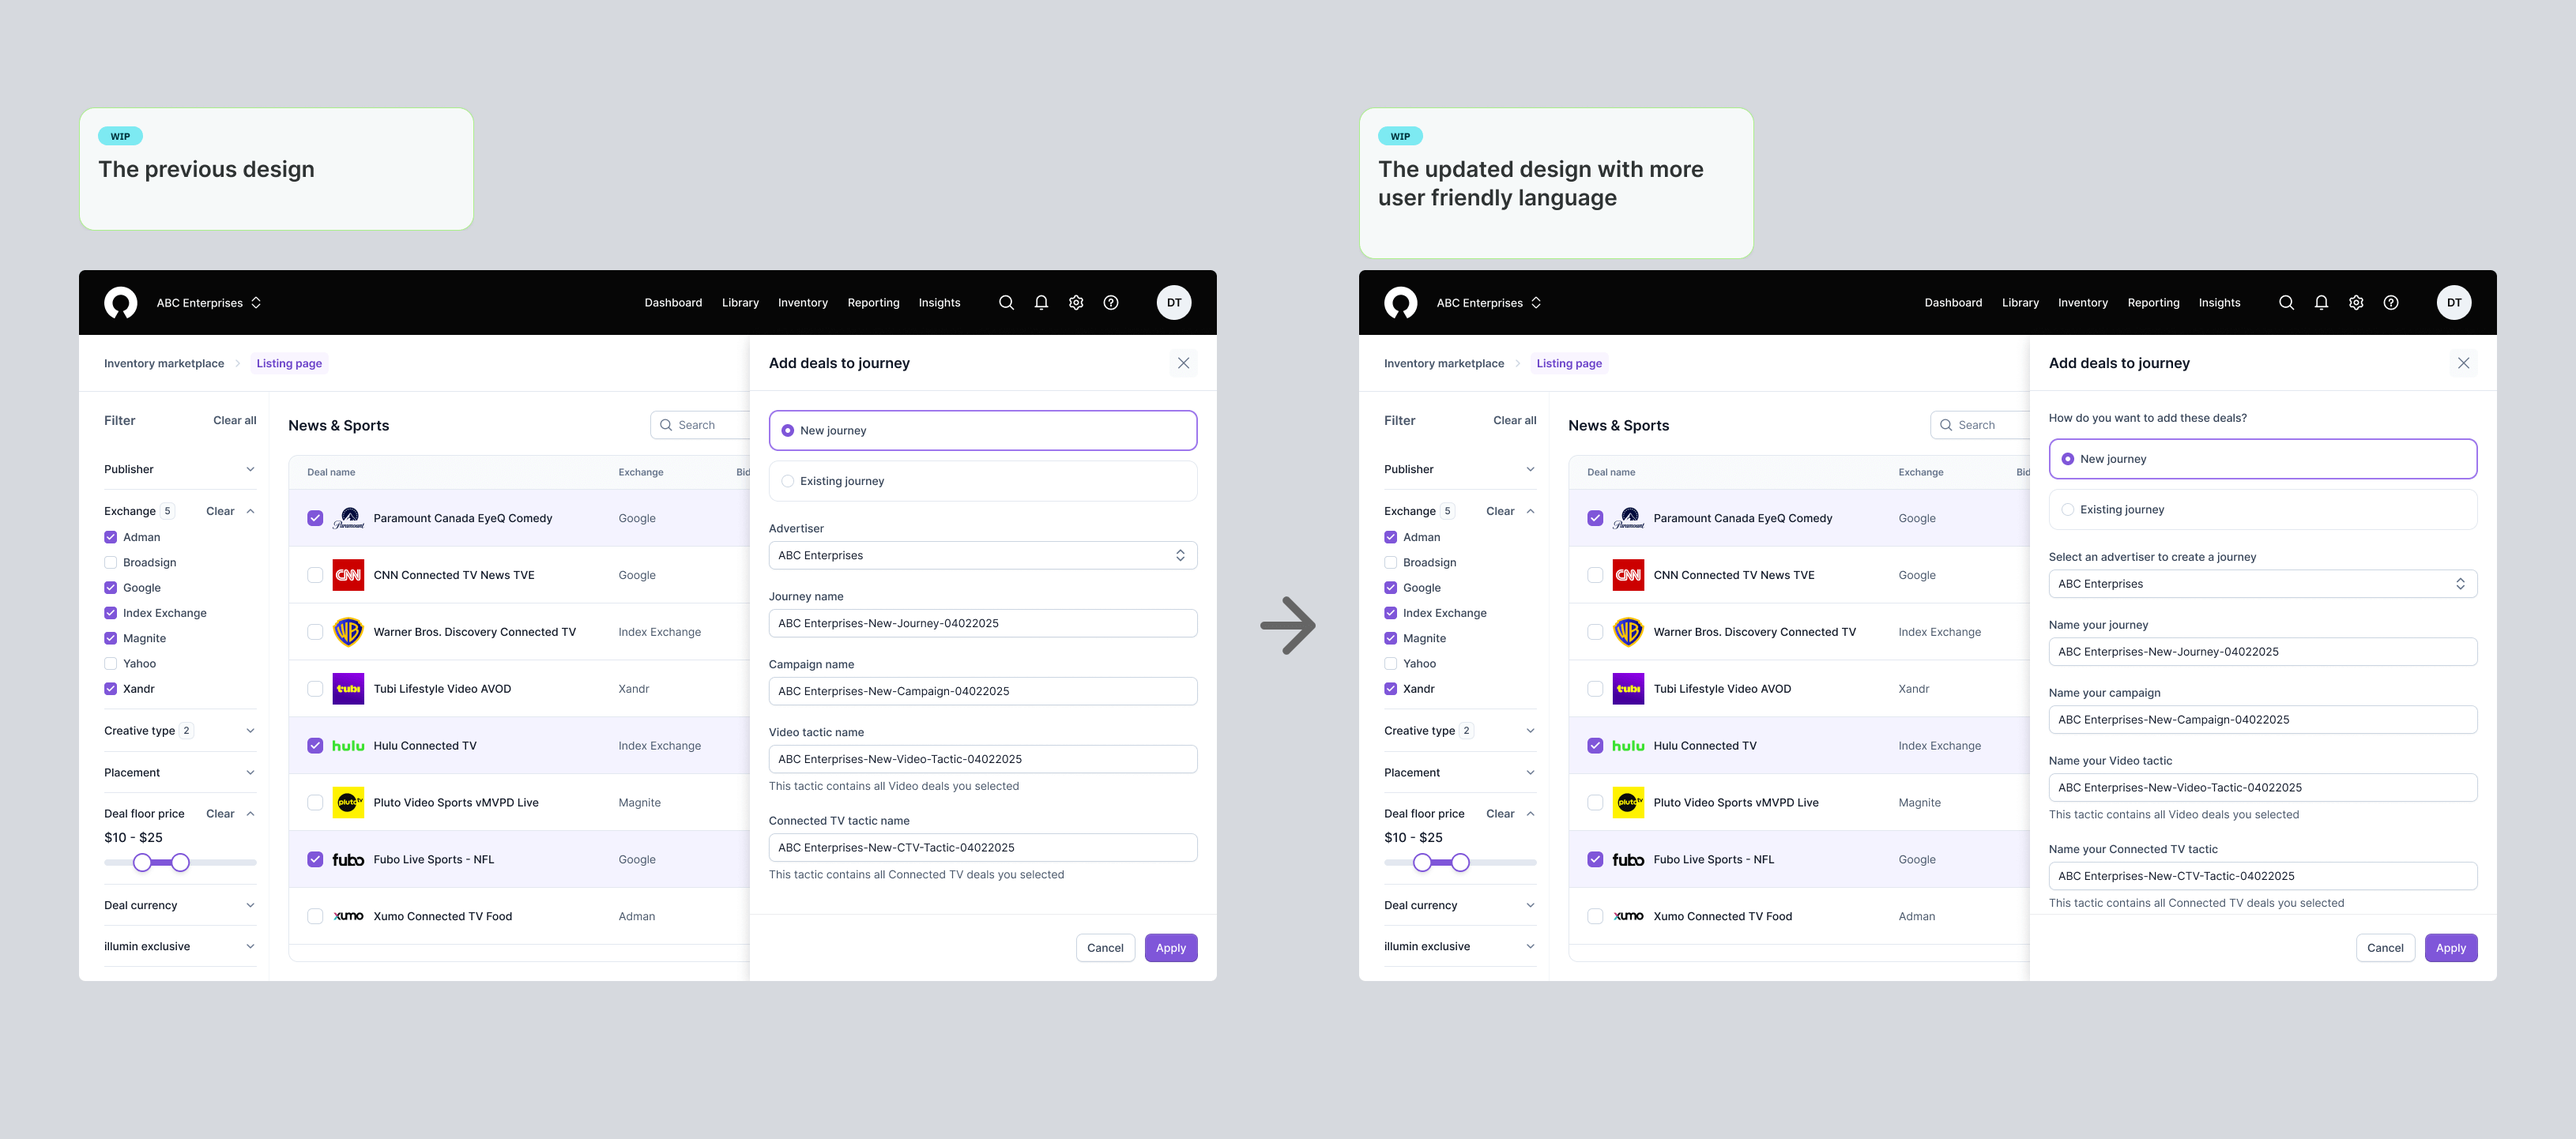
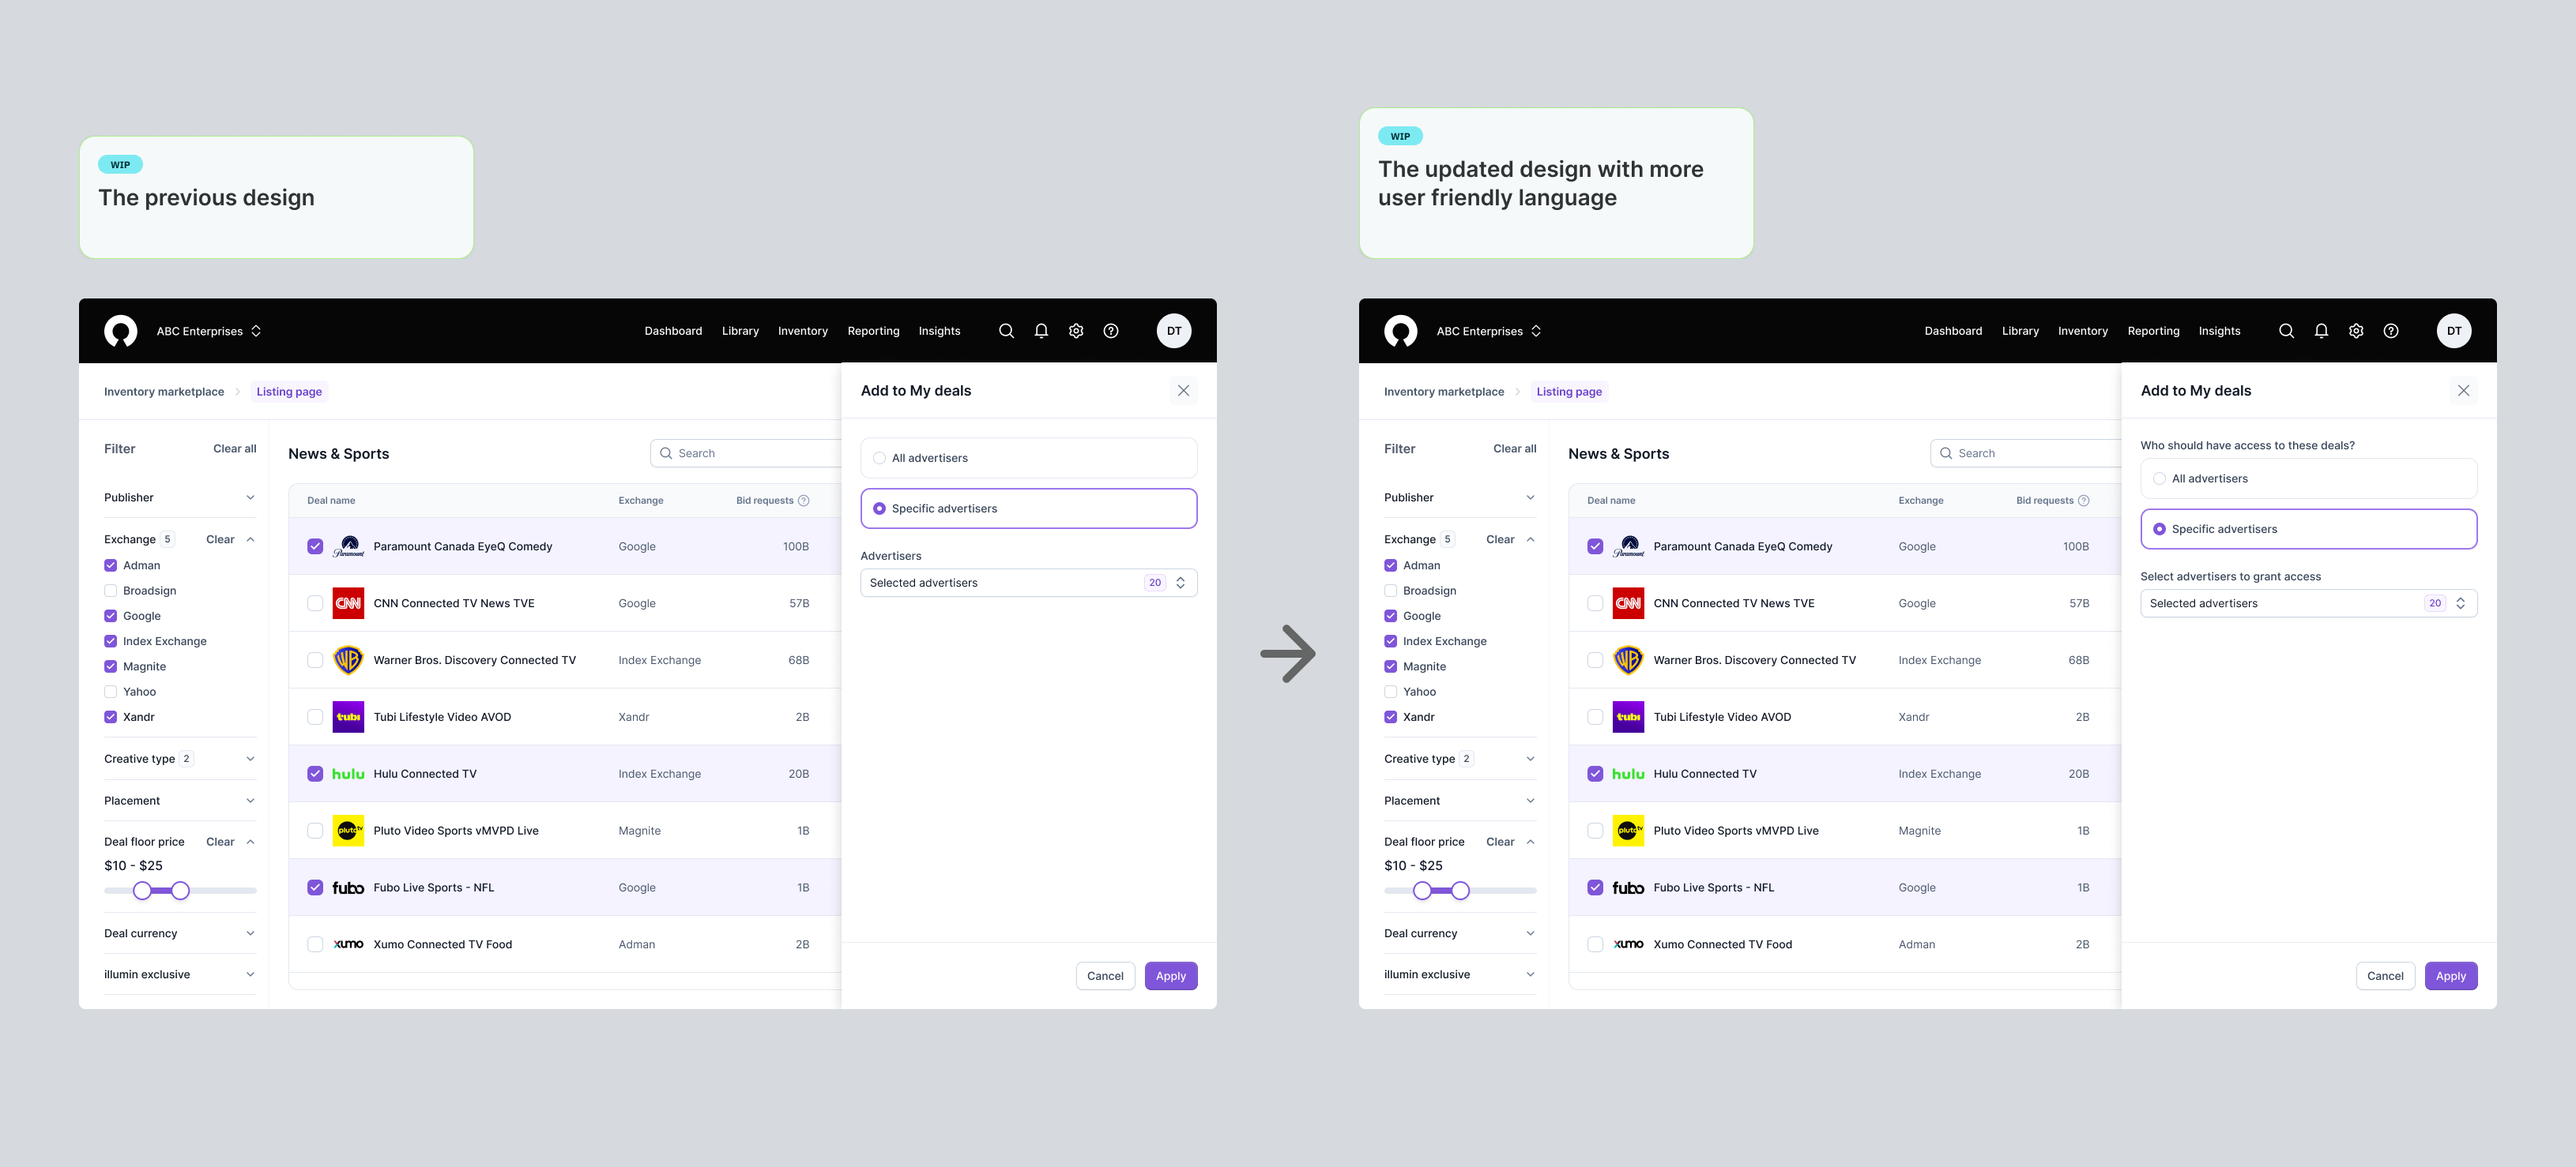
May 26

diff --git a/src/components/pages/project-pages/InventoryMarketplace.js b/src/components/pages/project-pages/InventoryMarketplace.js
@@ -61,12 +61,13 @@ function InventoryMarketplace() {
                     <h2>1. PROJECT OVERVIEW</h2>
                 </div>
                 <h3>Context</h3>
-                {/* <p>illumin was a platform that empowered marketers to create meaningful cross-channel advertising campaigns. Prior to this project, Illumin did not support self-serve uploading of first-party data, such as email addresses and phone numbers. To use first-party data, users had to provide this information to the customer success team, who would manually process and upload it for users to utilize.</p> */}
+                <p>Before this project, the experience of browsing and selecting deals was poor. Users had to search through a small modal with limited filters and not enough information to make informed decisions.</p>
+                <img src='images/project images/IM/IM-A02.png'className='large__image'></img>
                 <h3>Project objective</h3>
-                {/* <p>The goal of this project was to develop a feature that allows users to self-serve upload first-party data and then use this data to run ads in illumin.</p> */}
+                <p>The objective of this project was designing an inventory marketplace where users could easily browse deals, view details, and add them to a journey to run their ad campaigns.</p>
                 <h3>Project duration</h3>
                 <p>The dicovery and design phases for this project lasted for 16 weeks.</p>
-                <p>My role was Product Designer, the only designer for this project. What I show in this portfolio was my contribution to the project.</p>
+                <p>My role was Product Designer, the only product designer for this project. What I show in this portfolio was my contribution to the project.</p>
                 
             </div>
 
@@ -75,8 +76,11 @@ function InventoryMarketplace() {
                     <h2>2. DISCOVERY & ANALYSIS</h2>
                 </div>
                 <h3>Competitve analysis</h3>
+                <p> I start the phase by collaborating with the Product Manager and User Researcher to analyze the inventory marketplace of competing platforms, identifying key strengths and uncovering opportunities for improvement to inform our design strategy. </p>
                 <img src='images/project images/IM/IM-B01.png'className='large__image'></img>
-            
+                <h3>User Story Mapping</h3>
+                <p>Then I partnered with the Product Manager and User Researcher to conduct in-depth interviews with diverse user types, gaining a deep understanding of their needs, pain points, and behaviors to inform feature design.</p>
+                <img src='images/project images/IM/IM-B02.png'className='large__image'></img>
             </div>
 
             <div id="section3">
@@ -85,6 +89,7 @@ function InventoryMarketplace() {
                 </div>
                 <p className='space'>A</p>
                 <h3>User flow</h3>
+                <p>Initiated this phase by creating user flows based on insights from competitive analysis and user story mapping</p>
                 <img src='images/project images/IM/IM-C01.png'className='large__image'></img>
                 <h3>Sketching idea</h3>
                 <img src='images/project images/IM/IM-C02.png'className='large__image'></img>
@@ -98,19 +103,55 @@ function InventoryMarketplace() {
                 <div className='section__name'>
                     <h2>4. USER TESTING, GATHERING FEEDBACKS & ITERATIONS</h2>
                 </div>
+                <p className='space'>A</p>
+                <p>To gather feedback on the 1st iteration, the designs were shared with company stakeholders and users.</p>
+                <img src='images/project images/IM/IM-D00.png'className='medium__image'></img>
+                <p>Key feedback from the testing sessions:</p>
+                <ul>
+                    <li>The main flow—from browsing deals to viewing details and adding them to a journey—felt easy and intuitive.</li>
+                    <li>Stakeholders liked how we grouped deals into sections like premium publishers, event calendar, and seasonal highlights.</li>
+                    <li>Users found the deal detail drawer helpful for making decisions.</li>
+                    <li>Some users suggested new ways to organize deals on the homepage.</li>
+                    <li>Users recommended adding a "Clear filter" button for each filter.</li>
+                </ul>
                 <h3>The 2nd Iteration</h3>
-                <img src='images/project images/IM/IM-D01.png'className='medium__image'></img>
+                <p>I designed different widgets to cover all the ways deals could be grouped on the homepage.</p>
+                <img src='images/project images/IM/IM-D01.png'className='large__image'></img>
+                <p>I made UI updates based on feedback from the product team and other stakeholders.</p>
                 <img src='images/project images/IM/IM-D02.png'className='large__image'></img>
+                <p>I also updated the empty state of the right column to make it more user-friendly and visually appealing.</p>
                 <img src='images/project images/IM/IM-D03.png'className='large__image'></img>
+                <p>At the end of the 2nd iteration, we shared the design with users and company stakeholders to gather feedback. Key feedback:</p>
+                <ul>
+                    <li>Users wanted to see the expected bid price range, since bids are often higher than the floor price in real situations.</li>
+                    <li>Some stakeholders suggested showing publisher logos in the deal detail drawer for better clarity and trust.</li>
+                </ul>
                 <h3>The 3rd Iteration</h3>
+                <p>Based on feedback from user testing sessions, I added an 'Expected Bid Price' section to the right column so users could see the typical price range for their selected deals.</p>
                 <img src='images/project images/IM/IM-D04.png'className='large__image'></img>
+                <p>The publisher's logo was important for building user trust, so I added it to the deal detail drawer.</p>
                 <img src='images/project images/IM/IM-D05.png'className='large__image'></img>
+                <h3>Action drawer</h3>
+                <p>In earlier iterations, we decided that after selecting deals, users could either add them to a journey or save them to My Deals using a side drawer. Once the main flow and design were mostly finalized, I focused on designing the form fields users needed to fill out to complete their tasks.</p>
+                <h4>User flows in Action drawer</h4>
                 <img src='images/project images/IM/IM-Action-flow.png'className='large__image'></img>
+                <h4>Add deals to My deals</h4>
+                <p>Users could save deals to "My Deals" so they could easily find and use them later without searching again.</p>
                 <img src='images/project images/IM/IM-D06.png'className='large__image'></img>
+                <h4>Add deals to a journey</h4>
+                <p>Users could add deals to a new or existing journey to run their advertising campaign.</p>
                 <img src='images/project images/IM/IM-D07.png'className='large__image'></img>
+                <p>To gather feedback on the 3rd iteration, we shared the designs with users and company stakeholders. Key feedback:</p>
+                <ul>
+                    <li>The flows in the action drawer were clear and helped guide users step by step to complete their tasks.</li>
+                    <li>The language in the action drawer didn’t feel user-friendly. It should sound more like a conversation between the platform and the user.</li>
+                </ul>
                 <h3>The 4th Iteration</h3>
+                <p>I improved the language in the 'Add to My Deals' drawer to make it clearer and more user-friendly.</p>
                 <img src='images/project images/IM/IM-D08.png'className='large__image'></img>
+                <p>I also updated the language in the ‘Add deals to journey’ drawer.</p>
                 <img src='images/project images/IM/IM-D09.png'className='large__image'></img>
+                <p>I added an animation to the deal detail drawer so that the publisher's logo and deal name always stayed visible.</p>
                 <img src='images/project images/IM/IM-D10.png'className='large__image'></img>
             </div>
 
@@ -129,6 +170,7 @@ function InventoryMarketplace() {
                 </div>
                 <p className='space'>A</p>
                 {/* <p>As a result of this project, we successfully implemented a feature that not only empowers users to independently upload and utilize first-party data but also streamlines operations, reducing the manual workload for the client success team. In terms of business outcomes, we successfully met the success metric for this feature by managing 15,000,000 first-party data entries per month by the end of the first year.</p> */}
+                <p>The new inventory marketplace significantly improved the user experience of browsing and selecting deals. Users could now easily explore deals, view key details like expected bid price, and organize them into journeys to plan ad campaigns more efficiently. Feedback from users and stakeholders was positive, highlighting the intuitive flow, improved visual design, and helpful deal packaging. These changes led to increased engagement and greater confidence in selecting the right deals.</p>
                 <img src='images/illumin-logo.svg' className='logo'></img>
             </div>
             <div>

diff --git a/src/App.js b/src/App.js
@@ -19,7 +19,6 @@ import OWToFB from './components/pages/project-pages/OWToFB';
 import FootfallMeasurement from './components/pages/project-pages/FootfallMeasurement';
 import GeoPOITargeting from './components/pages/project-pages/GeoPOITargeting';
 import InventoryMarketplace from './components/pages/project-pages/InventoryMarketplace';
-import InventoryMarketplaceCS from './components/pages/project-pages/InventoryMarketplaceCS';
 import SupportCenter from './components/pages/project-pages/SupportCenter';
 import XscapeRentals from './components/pages/project-pages/XscapeRentals';
 import AlphaWebsite from './components/pages/project-pages/AlphaWebsite';
@@ -51,8 +50,7 @@ function App() {
 						<Route path='/open-web-to-facebook-instagram-connection' element={<OWToFB />} />
 						<Route path='/footfall-measurement' element={<FootfallMeasurement />} />
 						<Route path='/geo-poi-targeting' element={<GeoPOITargeting />} />
-						<Route path='/im' element={<InventoryMarketplace />} />
-						<Route path='/inventory-marketplace' element={<InventoryMarketplaceCS/>} />
+						<Route path='/inventory-marketplace' element={<InventoryMarketplace/>} />
 						<Route path='/support-center' element={<SupportCenter />} />
 						<Route path='/xscape-rentals' element={<XscapeRentals />} />
 						<Route path='/alpha-website' element={<AlphaWebsite />} />
